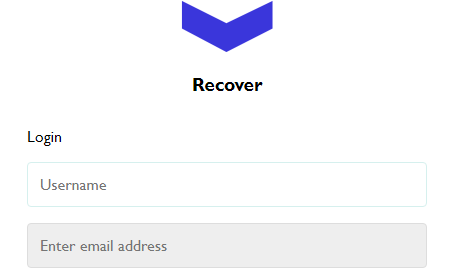
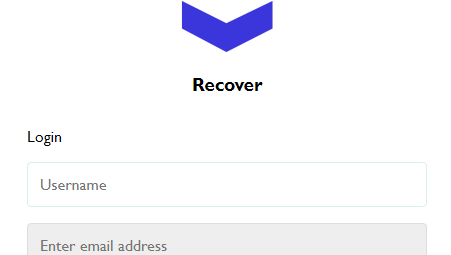
first commit

diff --git a/style.css b/style.css
@@ -52,7 +52,7 @@ body {
 /*the  container (putting all section into a conatiner that makes the text  in the web page  look's centered by giving all section padding 5em for left/right  2em for top/bottom )*/
 
 section {
-    padding: 4em 2em;
+    padding: 5em 2em;
 }
 
 img {
